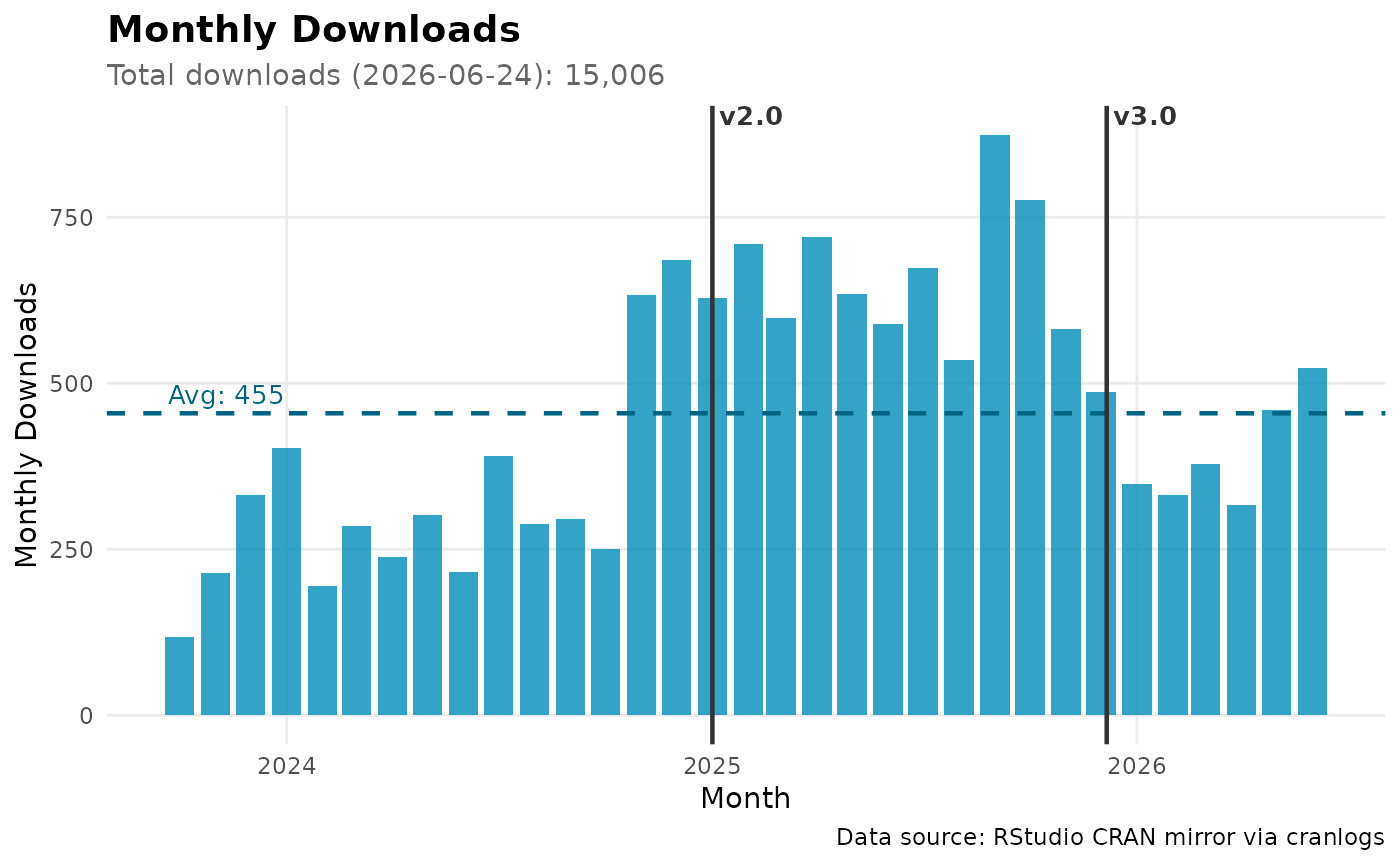
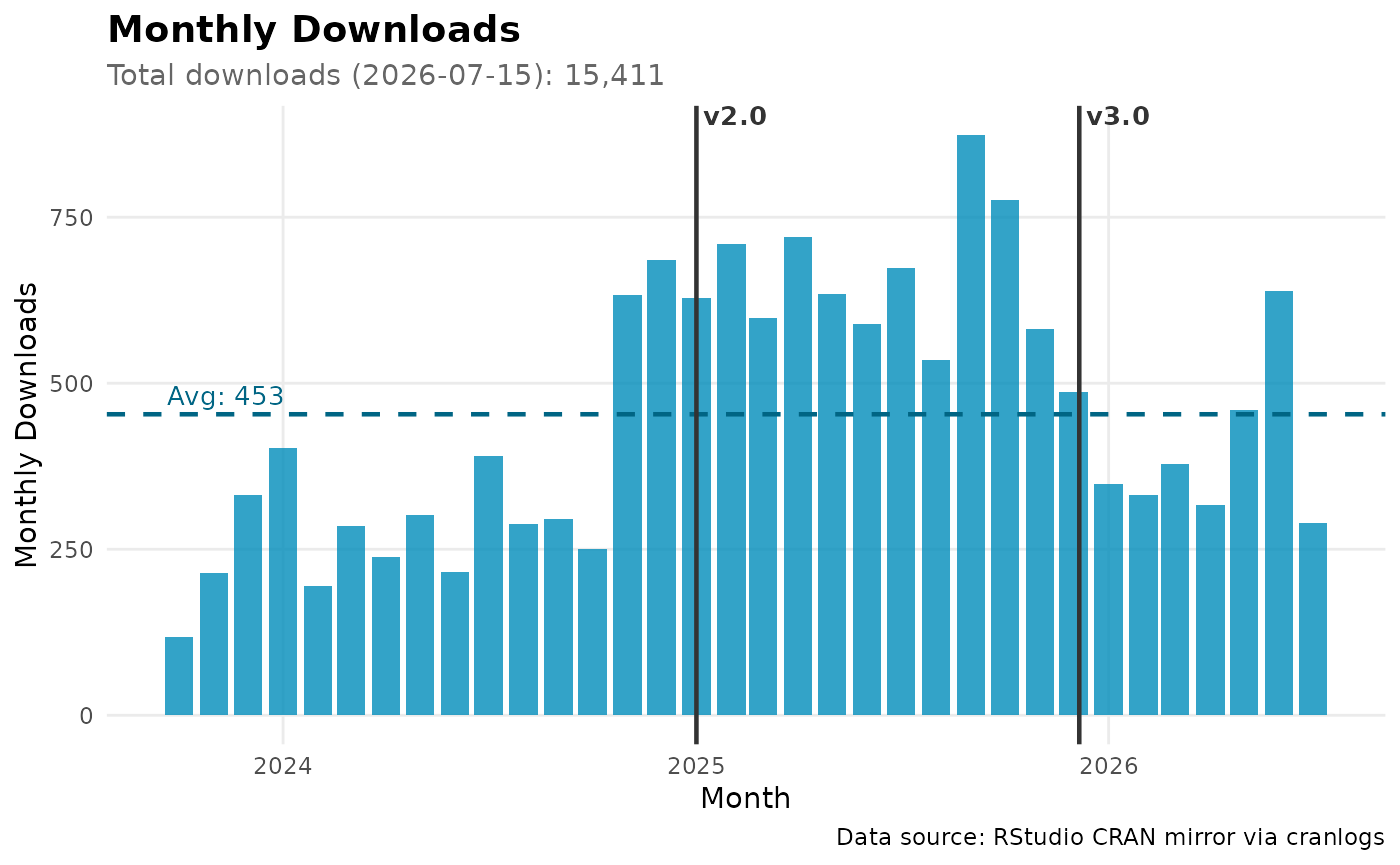
Deploying to gh-pages from @ BlasBenito/collinear@7025b856657b2500214643096698914a7655d862 🚀

diff --git a/reference/model_formula.html b/reference/model_formula.html
@@ -175,7 +175,7 @@ random effect: y ~ x + (1 \ z)
 <span class="r-out co"><span class="r-pr">#&gt;</span>     humidity_range + cloud_cover_range + swi_range + soil_silt + </span>
 <span class="r-out co"><span class="r-pr">#&gt;</span>     rainfall_min + rainfall_range + soil_soc + swi_mean + solar_rad_range + </span>
 <span class="r-out co"><span class="r-pr">#&gt;</span>     solar_rad_max + temperature_max</span>
-<span class="r-out co"><span class="r-pr">#&gt;</span> &lt;environment: 0x5567fe8e6c80&gt;</span>
+<span class="r-out co"><span class="r-pr">#&gt;</span> &lt;environment: 0x561772106570&gt;</span>
 <span class="r-in"><span></span></span>
 <span class="r-in"><span><span class="co">#using a formula in a model</span></span></span>
 <span class="r-in"><span><span class="va">m</span> <span class="op">&lt;-</span> <span class="fu">stats</span><span class="fu">::</span><span class="fu"><a href="https://rdrr.io/r/stats/lm.html" class="external-link">lm</a></span><span class="op">(</span></span></span>
@@ -233,7 +233,7 @@ random effect: y ~ x + (1 \ z)
 <span class="r-out co"><span class="r-pr">#&gt;</span>     humidity_range + cloud_cover_range + swi_range + soil_silt + </span>
 <span class="r-out co"><span class="r-pr">#&gt;</span>     rainfall_min + rainfall_range + soil_soc + swi_mean + solar_rad_range + </span>
 <span class="r-out co"><span class="r-pr">#&gt;</span>     solar_rad_max + temperature_max</span>
-<span class="r-out co"><span class="r-pr">#&gt;</span> &lt;environment: 0x5567efebcb50&gt;</span>
+<span class="r-out co"><span class="r-pr">#&gt;</span> &lt;environment: 0x56176e7df350&gt;</span>
 <span class="r-in"><span></span></span>
 <span class="r-in"><span></span></span>
 <span class="r-in"><span><span class="co">#polynomial formula (3rd degree)</span></span></span>
@@ -260,7 +260,7 @@ random effect: y ~ x + (1 \ z)
 <span class="r-out co"><span class="r-pr">#&gt;</span>     raw = TRUE) + poly(solar_rad_range, degree = 3, raw = TRUE) + </span>
 <span class="r-out co"><span class="r-pr">#&gt;</span>     poly(solar_rad_max, degree = 3, raw = TRUE) + poly(temperature_max, </span>
 <span class="r-out co"><span class="r-pr">#&gt;</span>     degree = 3, raw = TRUE)</span>
-<span class="r-out co"><span class="r-pr">#&gt;</span> &lt;environment: 0x5567f32051b8&gt;</span>
+<span class="r-out co"><span class="r-pr">#&gt;</span> &lt;environment: 0x5617698871b8&gt;</span>
 <span class="r-in"><span></span></span>
 <span class="r-in"><span><span class="co">#gam formula</span></span></span>
 <span class="r-in"><span><span class="va">y</span> <span class="op">&lt;-</span> <span class="fu">model_formula</span><span class="op">(</span></span></span>
@@ -279,7 +279,7 @@ random effect: y ~ x + (1 \ z)
 <span class="r-out co"><span class="r-pr">#&gt;</span>     s(swi_range) + s(soil_silt) + s(rainfall_min) + s(rainfall_range) + </span>
 <span class="r-out co"><span class="r-pr">#&gt;</span>     s(soil_soc) + s(swi_mean) + s(solar_rad_range) + s(solar_rad_max) + </span>
 <span class="r-out co"><span class="r-pr">#&gt;</span>     s(temperature_max)</span>
-<span class="r-out co"><span class="r-pr">#&gt;</span> &lt;environment: 0x5567f18c4300&gt;</span>
+<span class="r-out co"><span class="r-pr">#&gt;</span> &lt;environment: 0x56177173faf0&gt;</span>
 <span class="r-in"><span></span></span>
 <span class="r-in"><span><span class="co">#random effect</span></span></span>
 <span class="r-in"><span><span class="va">y</span> <span class="op">&lt;-</span> <span class="fu">model_formula</span><span class="op">(</span></span></span>
@@ -297,7 +297,7 @@ random effect: y ~ x + (1 \ z)
 <span class="r-out co"><span class="r-pr">#&gt;</span>     humidity_range + cloud_cover_range + swi_range + soil_silt + </span>
 <span class="r-out co"><span class="r-pr">#&gt;</span>     rainfall_min + rainfall_range + soil_soc + swi_mean + solar_rad_range + </span>
 <span class="r-out co"><span class="r-pr">#&gt;</span>     solar_rad_max + temperature_max + (1 | country_name)</span>
-<span class="r-out co"><span class="r-pr">#&gt;</span> &lt;environment: 0x5567f0bb1b10&gt;</span>
+<span class="r-out co"><span class="r-pr">#&gt;</span> &lt;environment: 0x561770d770e8&gt;</span>
 </code></pre></div>
     </div>
   </main><aside class="col-md-3"><nav id="toc" aria-label="Table of contents"><h2>On this page</h2>
@@ -309,7 +309,7 @@ random effect: y ~ x + (1 \ z)
 </div>
 
 <div class="pkgdown-footer-right">
-  <p>Site built with <a href="https://pkgdown.r-lib.org/" class="external-link">pkgdown</a> 2.2.0.</p>
+  <p>Site built with <a href="https://pkgdown.r-lib.org/" class="external-link">pkgdown</a> 2.2.1.</p>
 </div>
 
     </footer></div>

diff --git a/articles/target_encoding.html b/articles/target_encoding.html
@@ -350,8 +350,8 @@ providing a more statistically sound multicollinearity assessment.</li>
 <span>  seconds <span class="op">=</span> <span class="fu"><a href="https://rdrr.io/r/base/c.html" class="external-link">c</a></span><span class="op">(</span><span class="va">time_without</span><span class="op">[</span><span class="st">"elapsed"</span><span class="op">]</span>, <span class="va">time_with</span><span class="op">[</span><span class="st">"elapsed"</span><span class="op">]</span><span class="op">)</span></span>
 <span><span class="op">)</span></span>
 <span><span class="co">#&gt;   encoding seconds</span></span>
-<span><span class="co">#&gt; 1       No   9.945</span></span>
-<span><span class="co">#&gt; 2      Yes   0.348</span></span></code></pre></div>
+<span><span class="co">#&gt; 1       No   7.649</span></span>
+<span><span class="co">#&gt; 2      Yes   0.267</span></span></code></pre></div>
 <p>The speed-up is considerable!</p>
 <p>But that’s not the only consequence of applying target encoding.
 Let’s take a look at the variable selections on each run.</p>
@@ -402,7 +402,7 @@ mixed data types.</p>
 </div>
 
 <div class="pkgdown-footer-right">
-  <p>Site built with <a href="https://pkgdown.r-lib.org/" class="external-link">pkgdown</a> 2.2.0.</p>
+  <p>Site built with <a href="https://pkgdown.r-lib.org/" class="external-link">pkgdown</a> 2.2.1.</p>
 </div>
 
     </footer>

diff --git a/reference/collinear.html b/reference/collinear.html
@@ -394,14 +394,14 @@ Removes numeric predictors with VIF above <code>max_vif</code>. See <code><a hre
 <span class="r-out co"><span class="r-pr">#&gt;</span> vi_numeric ~ growing_season_length + soil_temperature_max + evapotranspiration_range + </span>
 <span class="r-out co"><span class="r-pr">#&gt;</span>     rainfall_min + swi_range + rainfall_range + topo_diversity + </span>
 <span class="r-out co"><span class="r-pr">#&gt;</span>     humidity_range + soil_clay + topo_elevation + soil_silt</span>
-<span class="r-out co"><span class="r-pr">#&gt;</span> &lt;environment: 0x5567eec102a0&gt;</span>
+<span class="r-out co"><span class="r-pr">#&gt;</span> &lt;environment: 0x56176cfb7bf0&gt;</span>
 <span class="r-out co"><span class="r-pr">#&gt;</span> </span>
 <span class="r-out co"><span class="r-pr">#&gt;</span> $smooth</span>
 <span class="r-out co"><span class="r-pr">#&gt;</span> vi_numeric ~ s(growing_season_length) + s(soil_temperature_max) + </span>
 <span class="r-out co"><span class="r-pr">#&gt;</span>     s(evapotranspiration_range) + s(rainfall_min) + s(swi_range) + </span>
 <span class="r-out co"><span class="r-pr">#&gt;</span>     s(rainfall_range) + s(topo_diversity) + s(humidity_range) + </span>
 <span class="r-out co"><span class="r-pr">#&gt;</span>     s(soil_clay) + s(topo_elevation) + s(soil_silt)</span>
-<span class="r-out co"><span class="r-pr">#&gt;</span> &lt;environment: 0x5567ee88f8b0&gt;</span>
+<span class="r-out co"><span class="r-pr">#&gt;</span> &lt;environment: 0x56176cea9f28&gt;</span>
 <span class="r-out co"><span class="r-pr">#&gt;</span> </span>
 <span class="r-in"><span></span></span>
 <span class="r-in"><span><span class="co">#using a formula</span></span></span>
@@ -457,7 +457,7 @@ Removes numeric predictors with VIF above <code>max_vif</code>. See <code><a hre
 </div>
 
 <div class="pkgdown-footer-right">
-  <p>Site built with <a href="https://pkgdown.r-lib.org/" class="external-link">pkgdown</a> 2.2.0.</p>
+  <p>Site built with <a href="https://pkgdown.r-lib.org/" class="external-link">pkgdown</a> 2.2.1.</p>
 </div>
 
     </footer></div>

diff --git a/reference/f_binomial_glm.html b/reference/f_binomial_glm.html
@@ -119,8 +119,8 @@ Supports cross-validation via the arguments arguments cv_training_fraction (nume
 <span class="r-in"><span>  cv_training_fraction <span class="op">=</span> <span class="fl">0.5</span>,</span></span>
 <span class="r-in"><span>  cv_iterations <span class="op">=</span> <span class="fl">10</span></span></span>
 <span class="r-in"><span>  <span class="op">)</span></span></span>
-<span class="r-out co"><span class="r-pr">#&gt;</span>  [1] 0.6464383 0.6912812 0.6897145 0.7125245 0.7051225 0.7614895 0.7104790</span>
-<span class="r-out co"><span class="r-pr">#&gt;</span>  [8] 0.7048571 0.6632095 0.7040886</span>
+<span class="r-out co"><span class="r-pr">#&gt;</span>  [1] 0.6464383 0.6913056 0.6897145 0.7125245 0.7050980 0.7614652 0.7104790</span>
+<span class="r-out co"><span class="r-pr">#&gt;</span>  [8] 0.7048571 0.6631849 0.7040886</span>
 <span class="r-in"><span></span></span>
 <span class="r-in"><span><span class="co">#categorical predictor</span></span></span>
 <span class="r-in"><span><span class="va">df</span> <span class="op">&lt;-</span> <span class="fu"><a href="https://rdrr.io/r/base/data.frame.html" class="external-link">data.frame</a></span><span class="op">(</span></span></span>
@@ -141,7 +141,7 @@ Supports cross-validation via the arguments arguments cv_training_fraction (nume
 </div>
 
 <div class="pkgdown-footer-right">
-  <p>Site built with <a href="https://pkgdown.r-lib.org/" class="external-link">pkgdown</a> 2.2.0.</p>
+  <p>Site built with <a href="https://pkgdown.r-lib.org/" class="external-link">pkgdown</a> 2.2.1.</p>
 </div>
 
     </footer></div>

diff --git a/articles/intelligent_predictor_ranking.html b/articles/intelligent_predictor_ranking.html
@@ -240,7 +240,7 @@ slot of the output.</p>
 <span><span class="co">#&gt; vi_numeric ~ swi_min + swi_range + topo_elevation + topo_slope + </span></span>
 <span><span class="co">#&gt;     soil_clay + humidity_range + rainfall_min + rainfall_range + </span></span>
 <span><span class="co">#&gt;     solar_rad_max</span></span>
-<span><span class="co">#&gt; &lt;environment: 0x55da2768aaa8&gt;</span></span></code></pre></div>
+<span><span class="co">#&gt; &lt;environment: 0x5560da51c718&gt;</span></span></code></pre></div>
 <p>We can use it to fit a quick exploratory model, and save it for
 later.</p>
 <div class="sourceCode" id="cb5"><pre class="downlit sourceCode r">
@@ -560,7 +560,7 @@ that one method is better than any other.</p>
 </div>
 
 <div class="pkgdown-footer-right">
-  <p>Site built with <a href="https://pkgdown.r-lib.org/" class="external-link">pkgdown</a> 2.2.0.</p>
+  <p>Site built with <a href="https://pkgdown.r-lib.org/" class="external-link">pkgdown</a> 2.2.1.</p>
 </div>
 
     </footer>

diff --git a/reference/f_binomial_gam.html b/reference/f_binomial_gam.html
@@ -120,7 +120,7 @@ Supports cross-validation via the arguments arguments cv_training_fraction (nume
 <span class="r-in"><span>  cv_iterations <span class="op">=</span> <span class="fl">10</span></span></span>
 <span class="r-in"><span>  <span class="op">)</span></span></span>
 <span class="r-out co"><span class="r-pr">#&gt;</span>  [1] 0.7460365 0.6659804 0.7489376 0.6883550 0.7196332 0.7364296 0.7108309</span>
-<span class="r-out co"><span class="r-pr">#&gt;</span>  [8] 0.7397763 0.7489252 0.6671687</span>
+<span class="r-out co"><span class="r-pr">#&gt;</span>  [8] 0.7397270 0.7489010 0.6671687</span>
 <span class="r-in"><span></span></span>
 <span class="r-in"><span><span class="co">#categorical predictor</span></span></span>
 <span class="r-in"><span><span class="va">df</span> <span class="op">&lt;-</span> <span class="fu"><a href="https://rdrr.io/r/base/data.frame.html" class="external-link">data.frame</a></span><span class="op">(</span></span></span>
@@ -141,7 +141,7 @@ Supports cross-validation via the arguments arguments cv_training_fraction (nume
 </div>
 
 <div class="pkgdown-footer-right">
-  <p>Site built with <a href="https://pkgdown.r-lib.org/" class="external-link">pkgdown</a> 2.2.0.</p>
+  <p>Site built with <a href="https://pkgdown.r-lib.org/" class="external-link">pkgdown</a> 2.2.1.</p>
 </div>
 
     </footer></div>

diff --git a/404.html b/404.html
@@ -92,7 +92,7 @@ Content not found. Please use links in the navbar.
 </div>
 
 <div class="pkgdown-footer-right">
-  <p>Site built with <a href="https://pkgdown.r-lib.org/" class="external-link">pkgdown</a> 2.2.0.</p>
+  <p>Site built with <a href="https://pkgdown.r-lib.org/" class="external-link">pkgdown</a> 2.2.1.</p>
 </div>
 
     </footer>

diff --git a/LICENSE-text.html b/LICENSE-text.html
@@ -63,7 +63,7 @@ COPYRIGHT HOLDER: Blas M. Benito
 </div>
 
 <div class="pkgdown-footer-right">
-  <p>Site built with <a href="https://pkgdown.r-lib.org/" class="external-link">pkgdown</a> 2.2.0.</p>
+  <p>Site built with <a href="https://pkgdown.r-lib.org/" class="external-link">pkgdown</a> 2.2.1.</p>
 </div>
 
     </footer></div>

diff --git a/LICENSE.html b/LICENSE.html
@@ -67,7 +67,7 @@
 </div>
 
 <div class="pkgdown-footer-right">
-  <p>Site built with <a href="https://pkgdown.r-lib.org/" class="external-link">pkgdown</a> 2.2.0.</p>
+  <p>Site built with <a href="https://pkgdown.r-lib.org/" class="external-link">pkgdown</a> 2.2.1.</p>
 </div>
 
     </footer></div>

diff --git a/articles/adaptive_filtering_thresholds.html b/articles/adaptive_filtering_thresholds.html
@@ -448,7 +448,7 @@ be used for consistency with existing literature.</p></li>
 </div>
 
 <div class="pkgdown-footer-right">
-  <p>Site built with <a href="https://pkgdown.r-lib.org/" class="external-link">pkgdown</a> 2.2.0.</p>
+  <p>Site built with <a href="https://pkgdown.r-lib.org/" class="external-link">pkgdown</a> 2.2.1.</p>
 </div>
 
     </footer>

diff --git a/articles/collinear_in_the_wild.html b/articles/collinear_in_the_wild.html
@@ -179,7 +179,7 @@ Informatics, 84</em>, 102974. <a href="https://doi.org/10.1016/j.ecoinf.2024.102
 </div>
 
 <div class="pkgdown-footer-right">
-  <p>Site built with <a href="https://pkgdown.r-lib.org/" class="external-link">pkgdown</a> 2.2.0.</p>
+  <p>Site built with <a href="https://pkgdown.r-lib.org/" class="external-link">pkgdown</a> 2.2.1.</p>
 </div>
 
     </footer>

diff --git a/articles/download_history.html b/articles/download_history.html
@@ -100,7 +100,7 @@
 </div>
 
 <div class="pkgdown-footer-right">
-  <p>Site built with <a href="https://pkgdown.r-lib.org/" class="external-link">pkgdown</a> 2.2.0.</p>
+  <p>Site built with <a href="https://pkgdown.r-lib.org/" class="external-link">pkgdown</a> 2.2.1.</p>
 </div>
 
     </footer>